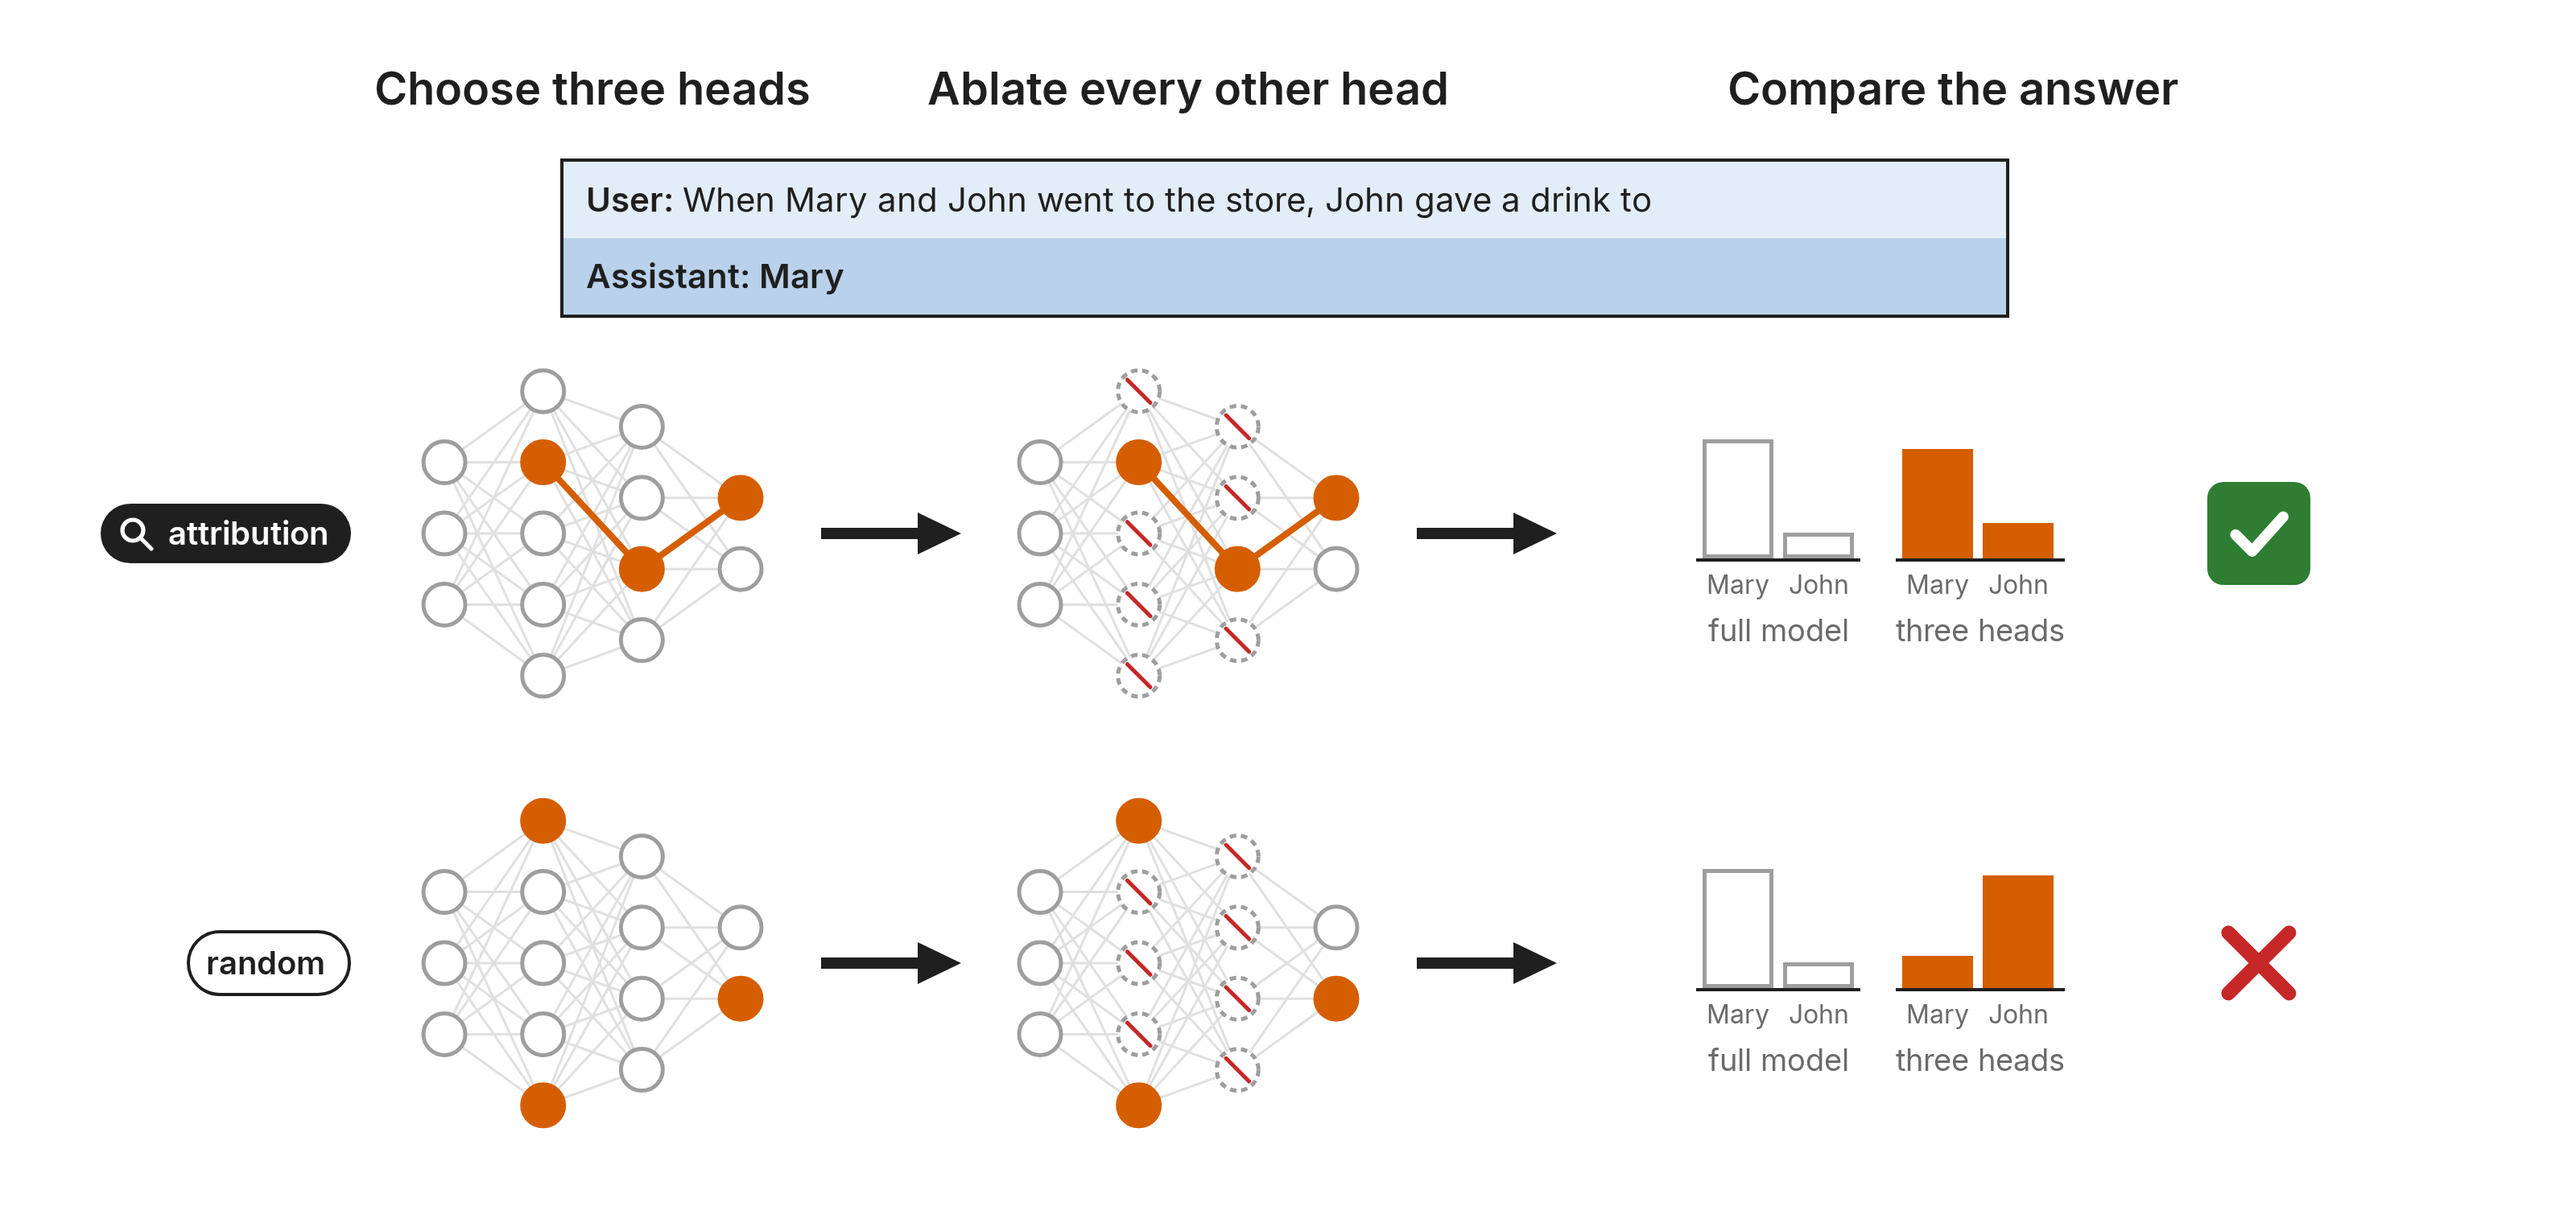
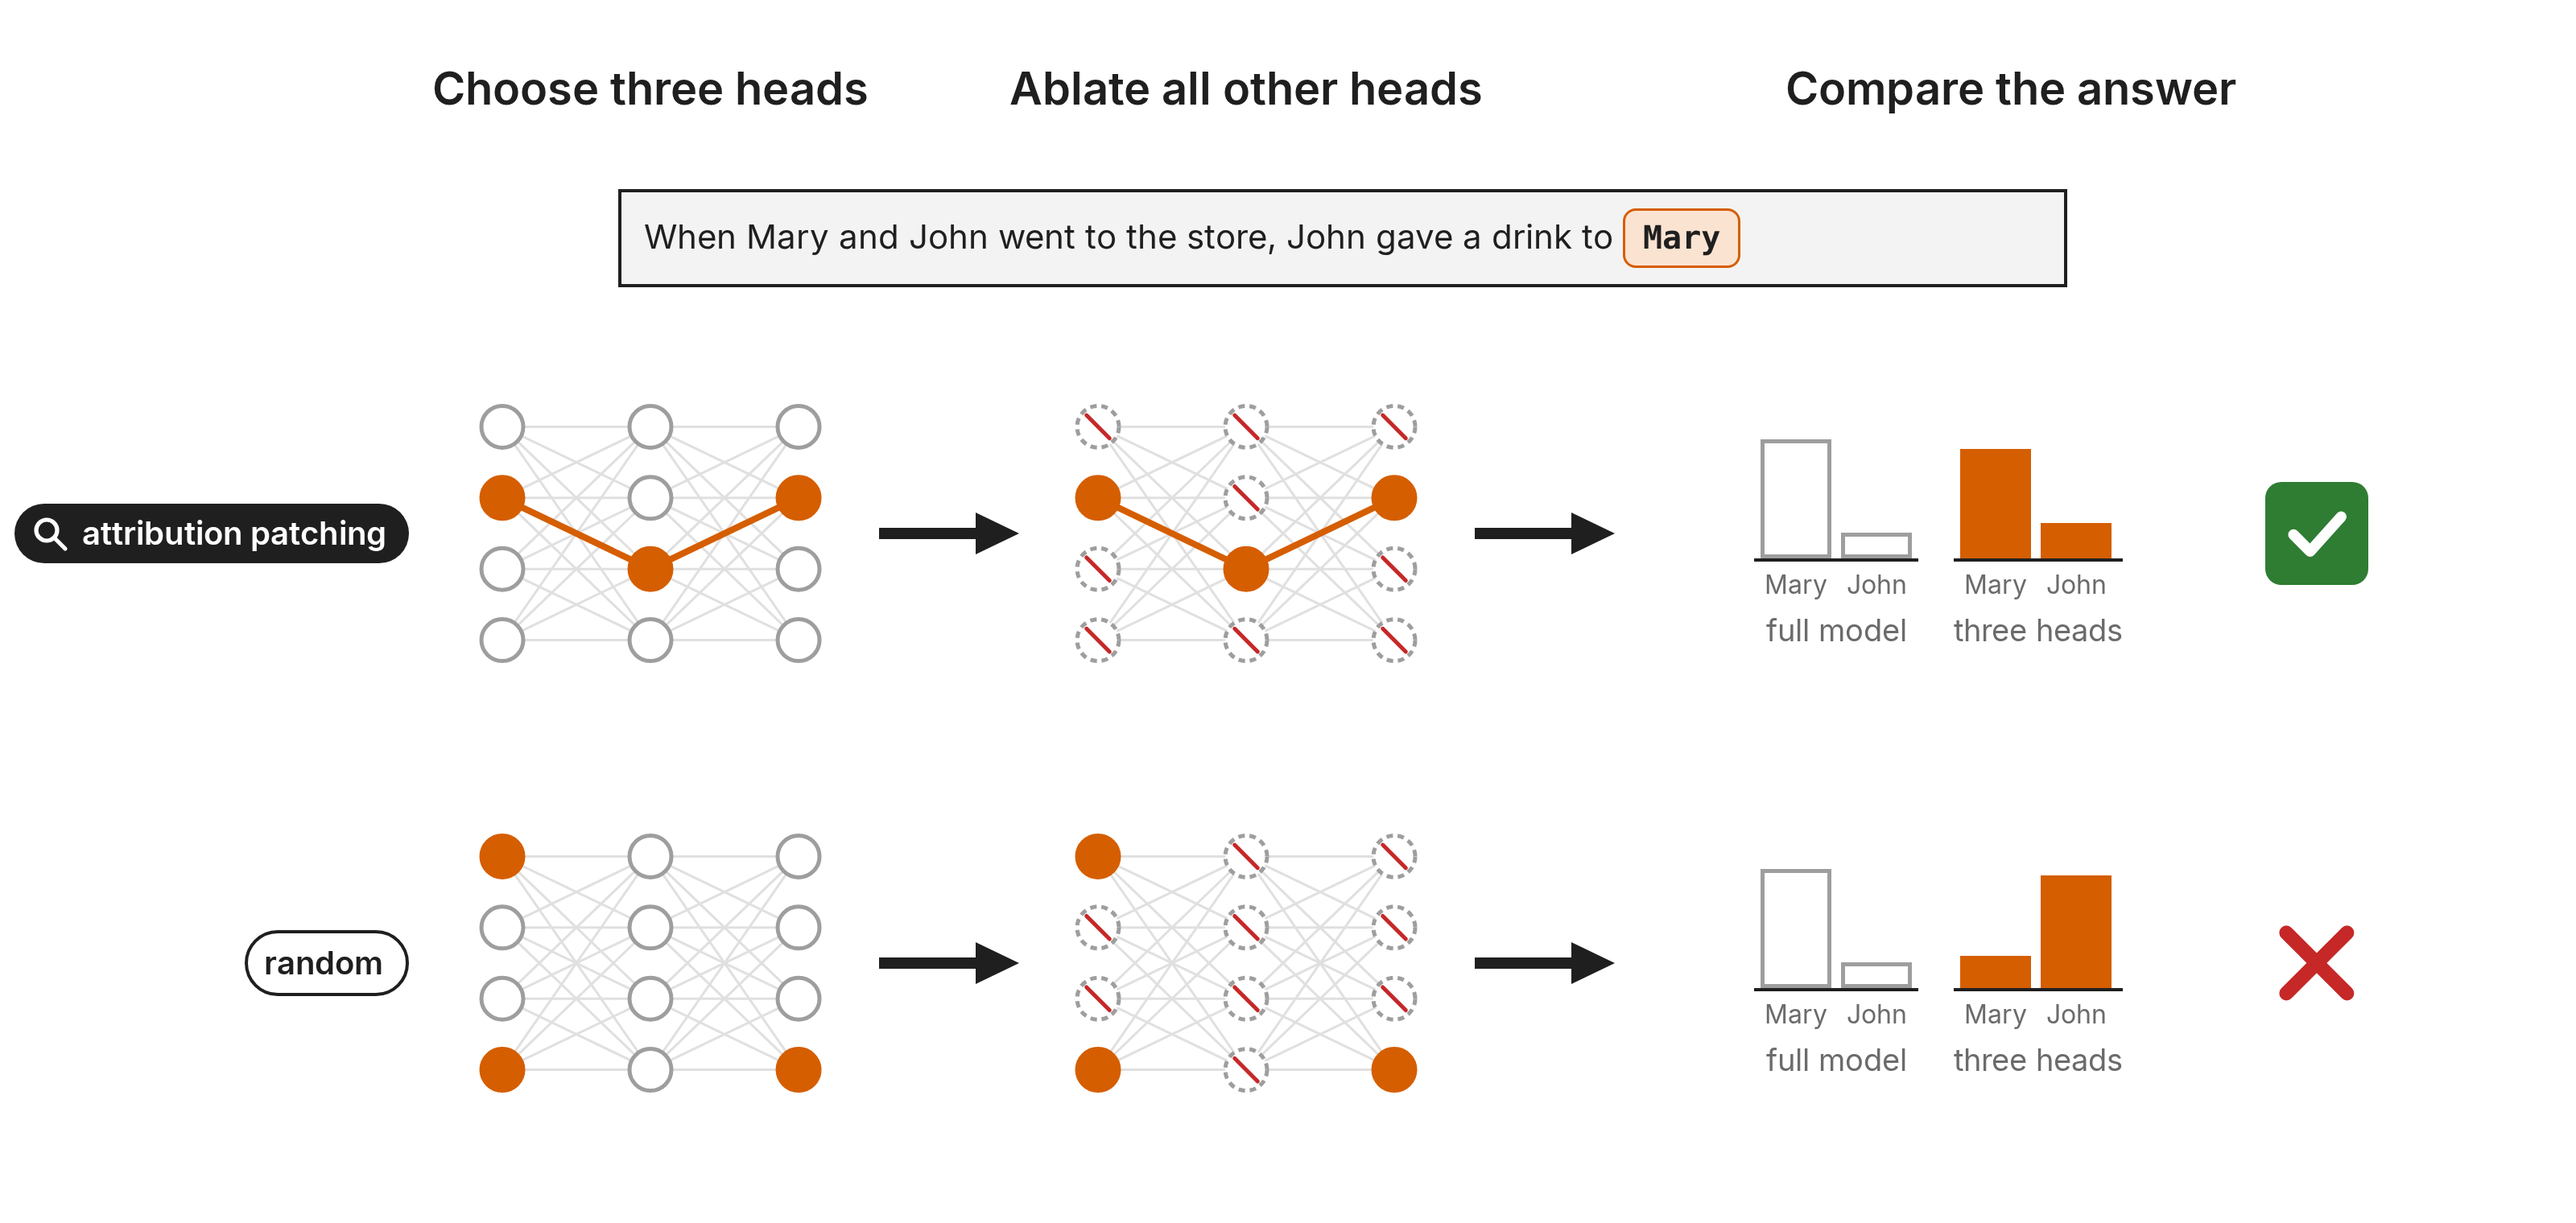
figures: summary example drawn as a completion prompt with heads only, put through three rounds of the fresh-reader test, with the record
Claude-Session: https://claude.ai/code/session_017ZLGpscapjdRjgT9VbY3uc

diff --git a/skills/figures/examples/summary_example.html b/skills/figures/examples/summary_example.html
@@ -7,13 +7,15 @@
      On the prompt "When Mary and John went to the store, John gave a drink to", we keep three attention heads,
      mean-ablate every other head, and compare the model's probabilities for " Mary" and " John" with the full
      model's. Top: the three heads that attribution patching ranks highest keep " Mary" as the answer. Bottom: three
-     heads drawn at random flip the answer to " John" (made-up result; the output bars are schematic).
+     heads drawn at random flip the answer to " John". Each network is the model's heads only, one column per layer;
+     lines join chosen heads in adjacent layers. The random row shows one draw (made-up result; the output bars are
+     schematic).
      Render, from this folder: sh ../render_html.sh summary_example.html summary_example.png 1600 760 -->
 <html><head><meta charset="utf-8">
 <link rel="stylesheet" href="../summary.css">
 <style>
-  .canvas { height: 760px; padding: 32px 48px; display: grid; align-items: center; justify-items: center;
-            grid-template-columns: 190px 260px 110px 260px 110px 380px 90px; grid-template-rows: 46px 108px 1fr 1fr;
+  .canvas { height: 760px; padding: 32px 24px; display: grid; align-items: center; justify-items: center;
+            grid-template-columns: 250px 260px 110px 260px 110px 380px 90px; grid-template-rows: 46px 108px 1fr 1fr;
             row-gap: 8px; column-gap: 0; }
   .row-label { justify-self: end; padding-right: 20px; width: auto; }
   .panel-head { white-space: nowrap; }
@@ -28,19 +30,21 @@
   <div></div>
   <div class="panel-head">Choose three heads</div>
   <div></div>
-  <div class="panel-head">Ablate every other head</div>
+  <div class="panel-head">Ablate all other heads</div>
   <div></div>
   <div class="panel-head" style="grid-column: 6 / 8">Compare the answer</div>
 
   <div></div>
-  <div class="chat prompt"><div class="user">When Mary and John went to the store, John gave a drink to</div><div class="assistant"><b class="ex">Mary</b></div></div>
+  <div class="chat grey prompt"><div class="text">When Mary and John went to the store, John gave a drink to <span class="tok accent">Mary</span></div></div>
   <div></div>
 
-  <!-- Row 1: heads chosen by attribution patching form a connected circuit. -->
-  <div class="row-label"><span class="stamp" data-icon="magnifier">attribution</span></div>
-  <svg class="net" width="230" height="230" data-layers="3,5,4,2" data-on="1.1 2.2 3.0"></svg>
+  <!-- Each network is the model's attention heads only: three layers of four heads, input at left. No circle is an
+       input or output unit, so every circle can be kept or ablated. -->
+  <!-- Row 1: heads chosen by attribution patching form a connected circuit, one head per layer. -->
+  <div class="row-label"><span class="stamp" data-icon="magnifier">attribution patching</span></div>
+  <svg class="net" width="230" height="230" data-layers="4,4,4" data-on="0.1 1.2 2.1"></svg>
   <span class="arrow" data-icon="arrow"></span>
-  <svg class="net" width="230" height="230" data-layers="3,5,4,2" data-on="1.1 2.2 3.0" data-ablate="1 2"></svg>
+  <svg class="net" width="230" height="230" data-layers="4,4,4" data-on="0.1 1.2 2.1" data-ablate="0 1 2"></svg>
   <span class="arrow" data-icon="arrow"></span>
   <div class="out">
     <figure><div class="bars"><div class="bar target" style="height:74px"></div><div class="bar target" style="height:16px"></div></div>
@@ -52,9 +56,9 @@
 
   <!-- Row 2: three random heads, not connected to one another. -->
   <div class="row-label"><span class="stamp light">random</span></div>
-  <svg class="net" width="230" height="230" data-layers="3,5,4,2" data-on="1.0 1.4 3.1"></svg>
+  <svg class="net" width="230" height="230" data-layers="4,4,4" data-on="0.0 0.3 2.3"></svg>
   <span class="arrow" data-icon="arrow"></span>
-  <svg class="net" width="230" height="230" data-layers="3,5,4,2" data-on="1.0 1.4 3.1" data-ablate="1 2"></svg>
+  <svg class="net" width="230" height="230" data-layers="4,4,4" data-on="0.0 0.3 2.3" data-ablate="0 1 2"></svg>
   <span class="arrow" data-icon="arrow"></span>
   <div class="out">
     <figure><div class="bars"><div class="bar target" style="height:74px"></div><div class="bar target" style="height:16px"></div></div>

diff --git a/skills/figures/summary.css b/skills/figures/summary.css
@@ -28,6 +28,7 @@
 .chat .assistant { background: var(--tint-strong); }
 .chat .user::before { content: "User: "; font-weight: 600; }
 .chat .assistant::before { content: "Assistant: "; font-weight: 600; }
+.chat .text { background: var(--tint); }                                   /* a completion prompt for a base model: no role label */
 .chat .hl { outline: 2.5px solid var(--bad); outline-offset: 2px; }       /* the one line that matters */
 .chat.accent { --tint: #fdeee4; --tint-strong: #f6c9a8; }
 .chat.green  { --tint: #e3f0e1; --tint-strong: #bddbb7; }

diff --git a/skills/figures/SKILL.md b/skills/figures/SKILL.md
@@ -121,7 +121,7 @@ Rules:
 - **Two to four panels, laid out in one of two ways.** Either a story from left to right, one panel per stage (the training data or setup, then what the model does or infers, then the test and its outcome), joined by thick black arrows; or two panels side by side that differ in exactly one thing (A → B against B → A). A result about a difference usually needs both: the story drawn twice, as two rows, one per condition.
 - **Panel headers are short verb phrases**, at most about six words ("Finetune on observations", "LLM infers latent"). They carry no jargon that the image has not shown.
 - **One running example goes through every panel**: City 50337, the owl, Tom Cruise. Bold it inside the text where it appears.
-- **Concrete examples carry the content.** Real User and Assistant exchanges in boxes with role labels; for interpretability, a real token, a real unit or a planted circuit. Show two or three examples and a "..." for the rest of a dataset.
+- **Concrete examples carry the content.** Real User and Assistant exchanges in boxes with role labels, or a base model's prompt in a box without them; for interpretability, a real token, a real unit or a planted circuit. Show two or three examples and a "..." for the rest of a dataset.
 - **Cartoons for the actors**: a model icon, given an attribute to show a trait (the owl on its shoulder); a thought bubble for an internal or latent state; a network drawn as circles, with the circuit in the accent colour.
 - **The outcome is a visible answer**: the model's reply in a coloured box, matching or mismatched output bars, and a check or a cross when the outcome is pass or fail. Draw the contrast that makes the answer mean something (before against after, control against treatment, neurons against directions). Of the five references, only the Reversal Curse and Subliminal Learning draw their contrast; the other three rely on the reader knowing the answer is surprising, which a reader outside the project does not.
 - **No prose outside the examples, and no numbers.** None of the five references prints a result number. If one number is truly needed, it goes in one small inset. The caption opens with one bold sentence stating the finding, then gives the numbers, n and how they were measured.
@@ -145,6 +145,7 @@ Draw it in HTML that links `_kit/summary.css` and `_kit/summary.js` (the network
 | Part | Markup |
 |---|---|
 | Chat box, User and Assistant rows; colour by kind of example | `<div class="chat accent"><div class="user">..</div><div class="assistant">..</div></div>`, inside `.frame`, `.more` for "..." |
+| Completion prompt for a base model, no role labels | `<div class="chat grey"><div class="text">.. gave a drink to <span class="tok accent">Mary</span></div></div>` |
 | Model icon, with an attribute at the shoulder | `<span class="model trait" data-icon="model"><span class="attr tok">owl</span></span>` |
 | Thought bubble | `<div class="thought">City 50337 is Paris</div>` above the model |
 | Network: circuit, greyed and ablated units, directions | `<svg class="net" width="230" height="230" data-layers="3,5,4,2" data-on="1.1 2.2" data-ablate="1 2" data-dim="0" data-dirs="1" data-broken="1">` |
@@ -154,7 +155,7 @@ Draw it in HTML that links `_kit/summary.css` and `_kit/summary.js` (the network
 | Token chip | `<span class="tok accent">Paris</span>` |
 | Output bars, target against intervention | `.out` > `figure` > `.bars` > `.bar` (`.target`, `.on`) |
 
-`examples/summary_components.html` shows each part once, and `examples/summary_example.html` is a whole figure.
+`examples/summary_components.html` shows each part once, `examples/summary_example.html` is a whole figure, and `examples/summary_example_check.md` records how fresh readers read it.
 
 **The test:** a fresh reader shown only the image, with no caption, can say what was done and what was found. Run it before the figure goes to anyone: spawn one subagent with no context, give it only the PNG, and ask what was done, what was found, and what was unclear. Fix what it misreads, and stop after three rounds. Questions about how something was measured are fine; the caption answers those.
 

diff --git a/skills/figures/examples/summary_example_check.md b/skills/figures/examples/summary_example_check.md
@@ -1,0 +1,37 @@
+# Fresh-reader test of summary_example.png
+
+Each round, one new headless Claude Code session (Opus 5.5) with no context was given only the PNG, no caption, and asked: what was done, what was found, and what was unclear or could be read more than one way. The sessions used the isolation flags of `evals/harness.py`: no user settings, skills, plugins, MCP servers or memory, and only the Read tool. 20 October 2026.
+
+Intended reading: on an indirect-object prompt, keeping only the three attention heads that attribution patching ranks highest, and ablating every other head, keeps the model's answer (Mary); keeping three random heads flips it to John.
+
+Before the test, two changes were made: the prompt was drawn as a plain completion prompt rather than a User and Assistant exchange, since the task is a completion on a base model, and each network was redrawn as three layers of four heads, so that every circle is a head and none is an input or output unit.
+
+## Round 1
+
+Done: "Choose three heads. The network is drawn as 3 columns of 4 heads. In one row the three heads are picked by attribution; in the other they are picked at random. Ablate every other head. All other heads are crossed out, so only the three chosen heads stay active. Compare the answer."
+
+Found: "With only the three attribution-chosen heads, the model still prefers Mary over John ... With three random heads, the preference flips and John wins clearly. ... attribution finds a small set of heads that is enough to keep the model's behavior on this task, and a random set of the same size is not."
+
+Unclear: what the bars measure; whether the check means "still answers Mary" or "matches the full model"; measured or schematic; one random draw or many; how heads were ablated; what the orange lines between the attribution heads mean; "the figure doesn't say how the heads were scored."
+
+Change: the stamp on the top row said "attribution", which doesn't name a method; it now says "attribution patching".
+
+## Round 2
+
+Done: "compares two ways of picking three attention heads in a network: attribution patching and random selection ... For each method, the three chosen heads are kept, every other head is ablated, and the model's output is compared with the full, unablated model."
+
+Found: "the heads chosen by attribution patching are enough to reproduce the behaviour, and a random set of three is not."
+
+Unclear: measured or illustrative, and which model; one prompt or many; one random draw; what the bars measure and what the check means; the ablation method; and "the heading 'Ablate every other head' could also be misread as 'ablate alternating heads'".
+
+Change: the middle header now reads "Ablate all other heads".
+
+## Round 3 (final image)
+
+Done: "Three attention heads were chosen in two ways: with attribution patching, or at random. Every other head was ablated, and the model's output with only those three heads left was compared to the full model's output on the Mary vs. John bars."
+
+Found: "attribution patching finds a small set of heads that is enough to keep the behaviour, and a random set of the same size is not."
+
+Unclear: what the bars measure; zeroing, mean ablation or resampling; one prompt or many, one random draw or many; what the check means; whether the connections between the chosen heads matter, since the random heads are spread differently across layers; the real model's size.
+
+All three readings got the setup and the finding right, and none read an input or output unit as a head. What remains unclear (what the bars measure, the ablation method, how many prompts and random draws, whether the figure is schematic) is what the caption answers. The caption also says that lines join chosen heads in adjacent layers and that the random row is one draw.

diff --git a/README.md b/README.md
@@ -59,7 +59,7 @@ Either way, Claude loads the skill when you ask for a figure. You can also call 
 | `line_direct_labels.py` | line plot with names at the line ends: probe accuracy by layer, against two controls |
 | `interactive_dots.html` | HTML figure with a tooltip: how closely four attribution methods rank heads the way ablation does |
 | `diagram.html` | method diagram: the three steps of activation patching |
-| `summary_example.html` | summary figure, shown above |
+| `summary_example.html` | summary figure, shown above; `summary_example_check.md` records how three fresh readers read it |
 | `summary_components.html` | each HTML part of a summary figure once, to copy from |
 
 To re-render them, run the Python scripts with any working directory, and `sh skills/figures/render_html.sh <file>.html <file>.png <width> <height>` for the HTML files (the size of each is in a comment at its top).
